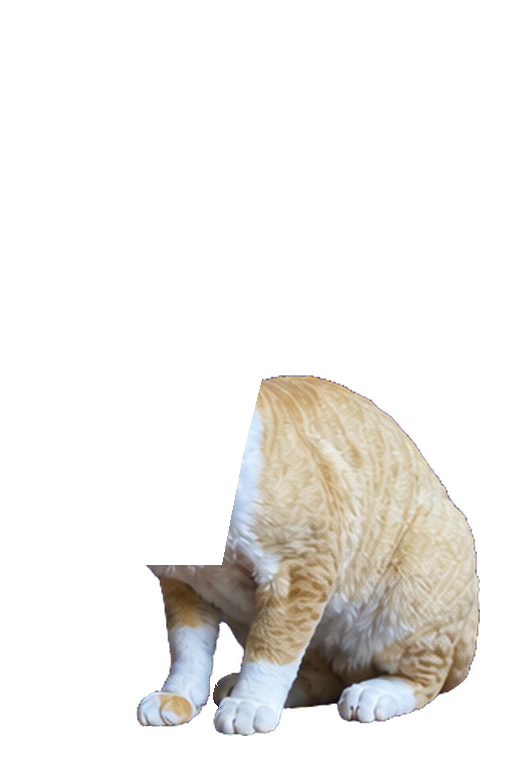
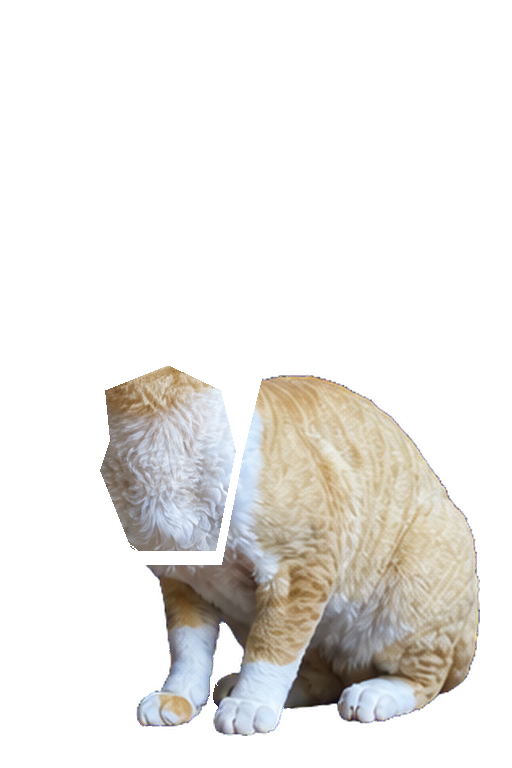
fix: retain hidden rig fill layers

Changed region(s): [[0.1875, 0.4688, 0.4688, 0.7188]]

diff --git a/tests/test_assemble_rig_center.py b/tests/test_assemble_rig_center.py
@@ -1,7 +1,9 @@
 from pathlib import Path
 
-from PIL import Image, ImageDraw
+import pytest
+from PIL import Image, ImageChops, ImageDraw
 
+from tools import assemble_rig_center
 from tools.assemble_rig_center import assemble_center, normalize_fill
 
 
@@ -14,6 +16,15 @@ def test_normalize_fill_discards_generated_pixels_outside_mask() -> None:
     assert result.getpixel((120, 220)) == (255, 0, 255, 255)
 
 
+def test_normalize_fill_keeps_straight_rgb_when_mask_is_gray() -> None:
+    generated = Image.new("RGBA", (512, 768), (0, 0, 0, 0))
+    generated.putpixel((100, 200), (200, 100, 50, 128))
+    mask = Image.new("L", (512, 768), 0)
+    mask.putpixel((100, 200), 128)
+    result = normalize_fill(generated, mask)
+    assert result.getpixel((100, 200)) == (200, 100, 50, 64)
+
+
 def test_assemble_center_is_exact_and_keeps_ai_hidden(tmp_path: Path) -> None:
     source = tmp_path / "source"
     (source / "masks").mkdir(parents=True)
@@ -24,7 +35,7 @@ def test_assemble_center_is_exact_and_keeps_ai_hidden(tmp_path: Path) -> None:
     dynamic = Image.new("L", canonical.size, 0)
     ImageDraw.Draw(dynamic).rectangle((80, 180, 220, 460), fill=255)
     body_fill = Image.new("L", canonical.size, 0)
-    ImageDraw.Draw(body_fill).rectangle((100, 360, 200, 450), fill=255)
+    ImageDraw.Draw(body_fill).rectangle((80, 360, 200, 450), fill=255)
     left = Image.new("L", canonical.size, 0)
     right = Image.new("L", canonical.size, 0)
     ImageDraw.Draw(left).ellipse((110, 240, 130, 260), fill=255)
@@ -41,6 +52,18 @@ def test_assemble_center_is_exact_and_keeps_ai_hidden(tmp_path: Path) -> None:
     report = assemble_center(source, tmp_path / "samples" / "center")
     assert report["changed_pixels"] == 0
     assert report["maximum_channel_delta"] == 0
+    body_base = Image.open(source / "layers" / "body_base.png").convert("RGBA")
+    head_neck = Image.open(source / "layers" / "head_neck_base.png").convert("RGBA")
+    assert body_base.getpixel((80, 400)) == (20, 30, 40, 255)
+    assert head_neck.getpixel((120, 250)) == (50, 60, 70, 255)
+    assert body_base.getpixel((79, 400)) == (0, 0, 0, 0)
+    assert head_neck.getpixel((79, 400)) == (0, 0, 0, 0)
+    shifted = Image.new("RGBA", canonical.size, (0, 0, 0, 0))
+    shifted.alpha_composite(body_base)
+    shifted.alpha_composite(head_neck, (4, 0))
+    assert shifted.getpixel((80, 400))[3] == 255
+    decoded = Image.open(tmp_path / "samples" / "center" / "composite.png").convert("RGBA")
+    assert ImageChops.difference(decoded, canonical).getbbox() is None
 
 
 def test_assemble_center_is_exact_with_a_partially_transparent_eye_mask(
@@ -96,3 +119,47 @@ def test_assemble_center_preserves_transparent_canonical_edge_pixels(
     report = assemble_center(source, tmp_path / "samples" / "center")
     assert report["changed_pixels"] == 0
     assert report["maximum_channel_delta"] == 0
+
+
+def test_assemble_center_leaves_formal_outputs_untouched_on_temp_encode_failure(
+    tmp_path: Path, monkeypatch: pytest.MonkeyPatch
+) -> None:
+    source = tmp_path / "source"
+    (source / "masks").mkdir(parents=True)
+    (source / "ai").mkdir()
+    canonical = Image.new("RGBA", (512, 768), (210, 140, 80, 255))
+    canonical.save(source / "canonical-idle.png")
+    for name in ("dynamic-head-neck", "body-fill", "eye-left", "eye-right"):
+        Image.new("L", canonical.size, 0).save(source / "masks" / f"{name}-mask.png")
+    Image.new("RGBA", canonical.size, (20, 30, 40, 255)).save(
+        source / "ai" / "body-fill-raw.png"
+    )
+    Image.new("RGBA", canonical.size, (50, 60, 70, 255)).save(
+        source / "ai" / "eye-fill-raw.png"
+    )
+    output_paths = [
+        source / "layers" / name
+        for name in (
+            "body_base.png",
+            "head_neck_base.png",
+            "eye_left.png",
+            "eye_right.png",
+            "eye_left_mask.png",
+            "eye_right_mask.png",
+        )
+    ] + [tmp_path / "samples" / "center" / "composite.png"]
+    for path in output_paths:
+        path.parent.mkdir(parents=True, exist_ok=True)
+        path.write_bytes(b"sentinel")
+    original_save = Image.Image.save
+
+    def fail_temporary_encode(self: Image.Image, fp: object, *args: object, **kwargs: object) -> None:
+        if ".tmp.png" in Path(fp).name:
+            raise OSError("injected temporary encode failure")
+        original_save(self, fp, *args, **kwargs)
+
+    monkeypatch.setattr(Image.Image, "save", fail_temporary_encode)
+    with pytest.raises(OSError, match="injected temporary encode failure"):
+        assemble_center(source, tmp_path / "samples" / "center")
+    assert [path.read_bytes() for path in output_paths] == [b"sentinel"] * len(output_paths)
+    assert not list(tmp_path.rglob("*.tmp.png"))

diff --git a/tools/assemble_rig_center.py b/tools/assemble_rig_center.py
@@ -2,6 +2,7 @@ from __future__ import annotations
 
 import hashlib
 from pathlib import Path
+from uuid import uuid4
 
 from PIL import Image, ImageChops
 
@@ -23,8 +24,8 @@ def normalize_fill(generated: Image.Image, mask: Image.Image) -> Image.Image:
         if rgba.width * CANVAS[1] != rgba.height * CANVAS[0]:
             raise ValueError("generated fill must keep the canonical 2:3 aspect ratio")
         rgba = rgba.resize(CANVAS, Image.Resampling.LANCZOS)
-    clipped = Image.new("RGBA", CANVAS, (0, 0, 0, 0))
-    clipped.paste(rgba, (0, 0), mask)
+    clipped = rgba.copy()
+    clipped.putalpha(ImageChops.multiply(rgba.getchannel("A"), mask.convert("L")))
     return _clean_hidden_rgb(clipped)
 
 
@@ -39,6 +40,33 @@ def _composite(*layers: Image.Image) -> Image.Image:
     for layer in layers:
         result.alpha_composite(layer)
     return _clean_hidden_rgb(result)
+
+
+def _verify_encoded_png(expected: Image.Image, encoded_path: Path) -> None:
+    with Image.open(encoded_path) as opened:
+        decoded = opened.copy()
+    if decoded.size != expected.size or decoded.mode != expected.mode:
+        raise RuntimeError(f"encoded output mismatch: {encoded_path}")
+    if decoded.tobytes() != expected.tobytes():
+        raise RuntimeError(f"encoded output pixels mismatch: {encoded_path}")
+
+
+def _save_outputs(outputs: dict[Path, Image.Image]) -> None:
+    temporary_paths: list[tuple[Path, Path]] = []
+    try:
+        for destination, image in outputs.items():
+            temporary = destination.with_name(
+                f".{destination.stem}.{uuid4().hex}.tmp.png"
+            )
+            temporary_paths.append((temporary, destination))
+            image.save(temporary, format="PNG", optimize=True)
+            _verify_encoded_png(image, temporary)
+        for temporary, destination in temporary_paths:
+            temporary.replace(destination)
+    except Exception:
+        for temporary, _ in temporary_paths:
+            temporary.unlink(missing_ok=True)
+        raise
 
 
 def assemble_center(source_root: Path, sample_root: Path) -> dict[str, object]:
@@ -59,8 +87,11 @@ def assemble_center(source_root: Path, sample_root: Path) -> dict[str, object]:
             opened, ImageChops.lighter(masks["eye-left"], masks["eye-right"])
         )
     static_mask = ImageChops.invert(masks["dynamic-head-neck"])
+    opaque_canonical_mask = canonical.getchannel("A").point(
+        lambda alpha: 255 if alpha == 255 else 0
+    )
     body_base = _composite(
-        _masked(canonical, static_mask), _masked(body_fill, static_mask)
+        _masked(canonical, static_mask), _masked(body_fill, opaque_canonical_mask)
     )
     eye_mask = ImageChops.lighter(masks["eye-left"], masks["eye-right"])
     solid_eye_mask = eye_mask.point(lambda value: 255 if value == 255 else 0)
@@ -75,16 +106,15 @@ def assemble_center(source_root: Path, sample_root: Path) -> dict[str, object]:
     if changed or maximum:
         raise RuntimeError(f"center recomposition drift: {changed} pixels, max {maximum}")
     outputs = {
-        "body_base.png": body_base,
-        "head_neck_base.png": head_neck,
-        "eye_left.png": eye_left,
-        "eye_right.png": eye_right,
-        "eye_left_mask.png": masks["eye-left"],
-        "eye_right_mask.png": masks["eye-right"],
+        layers_root / "body_base.png": body_base,
+        layers_root / "head_neck_base.png": head_neck,
+        layers_root / "eye_left.png": eye_left,
+        layers_root / "eye_right.png": eye_right,
+        layers_root / "eye_left_mask.png": masks["eye-left"],
+        layers_root / "eye_right_mask.png": masks["eye-right"],
+        sample_root / "composite.png": composite,
     }
-    for name, image in outputs.items():
-        image.save(layers_root / name, optimize=True)
-    composite.save(sample_root / "composite.png", optimize=True)
+    _save_outputs(outputs)
     return {
         "changed_pixels": changed,
         "maximum_channel_delta": maximum,
